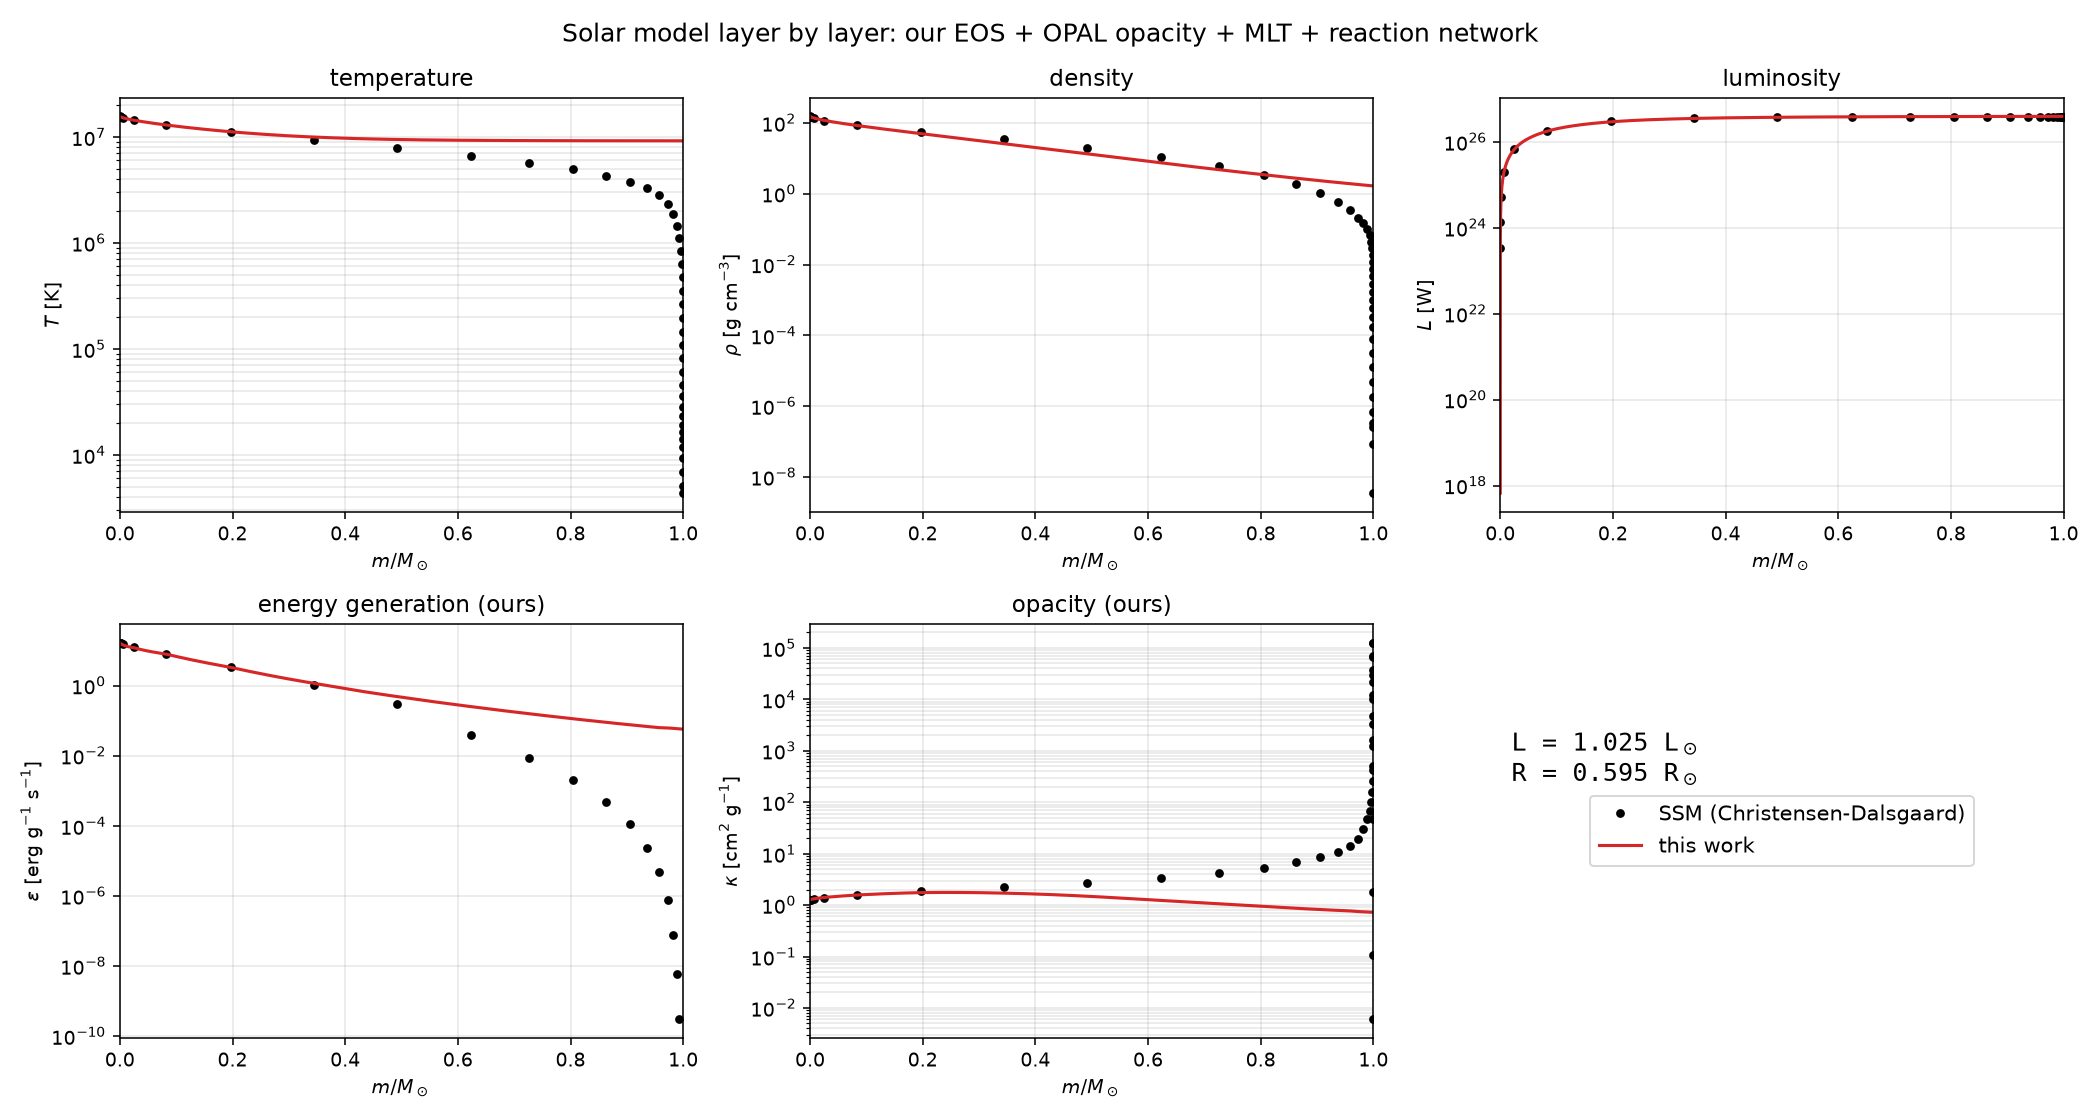
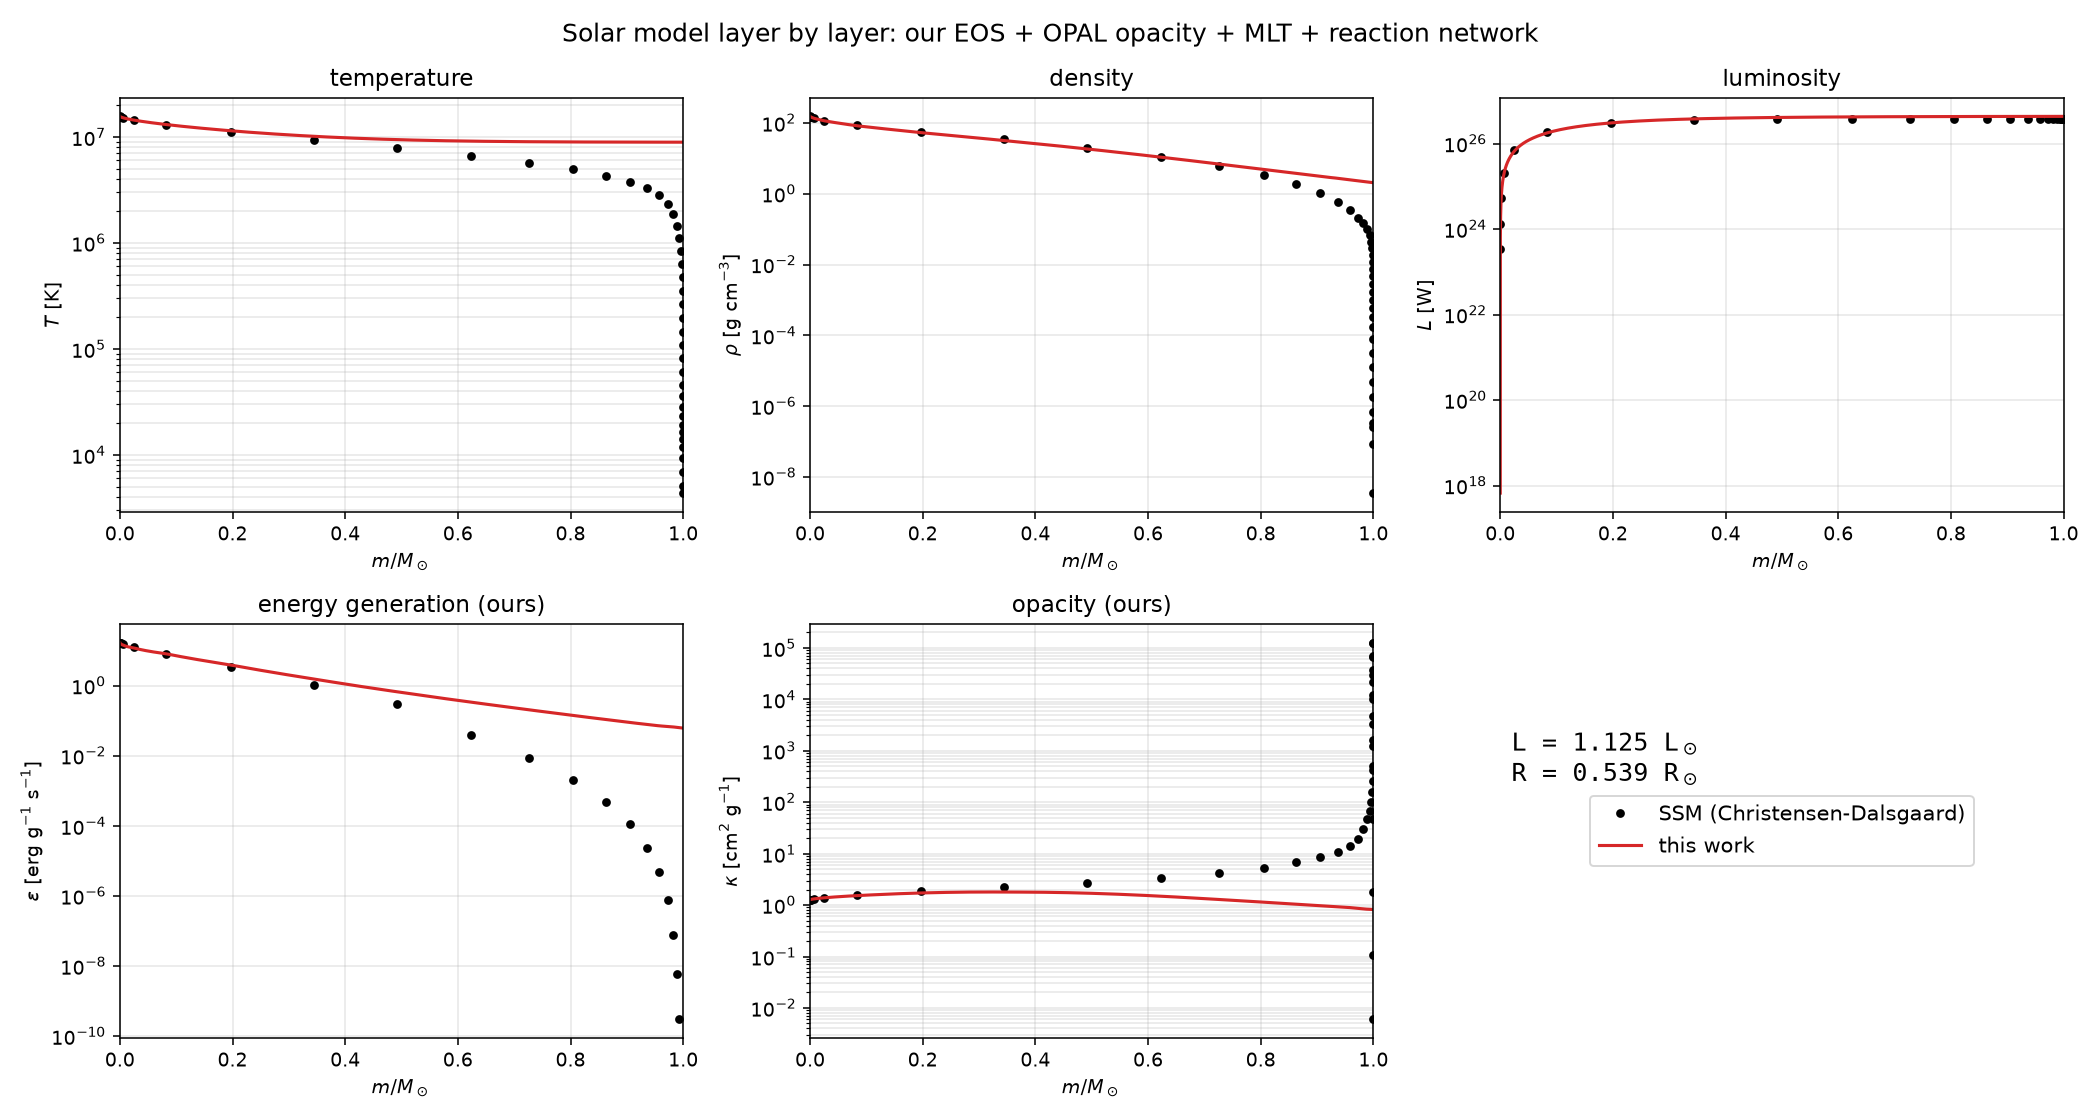
fix(solar): the two formulations disagreed because of a missing chain-rule term
The 10% luminosity gap between the (rho, T) and (r, P, T, L) structure integrations, recorded last
round as an unexplained reproducibility problem, is a formula error.

The density formulation advanced rho with

  d rho/dm = (dP/dm) / (dP/d rho)|_T

but the temperature also varies along the mass coordinate, so the total derivative needs both
terms:

  d rho/dm = (d rho/dP)|_T dP/dm + (d rho/dT)|_P dT/dm

Dropping the second term silently treats the star as isothermal for the purpose of converting the
pressure gradient.  With it the two formulations separate exactly as observed: 0.595 R_sun and
1.025 L_sun with the truncated chain rule, 0.539 R_sun and 1.125 L_sun with the correct one.

A convergence study settles which is right: each formulation is already converged - identical
results at 400, 1600 and 6400 mass steps - but they converge to *different* answers, so this was
never truncation error and only one of them could be correct.  It is the textbook (r, P, T, L) one.

The default is now that formulation.  The density branch stays in the code with a warning comment
as the record of the mistake, and the regression baseline moves to L = 1.125 L_sun, R = 0.539
R_sun - worse-looking numbers than the 1.025 they replace, but ours.

The lesson is in the specification: when changing the discretisation moves a model by 10%, suspect
the formula before the physics.  Continuing to calibrate on 1.025 would have built every later
conclusion on a dropped term.

diff --git a/Tools/star/stellar_structure.py b/Tools/star/stellar_structure.py
@@ -268,7 +268,7 @@ def mlt_gradient(t_k, p, rho, kappa, luminosity, m, r, mu, grad_ad, alpha_mlt):
 
 
 def integrate_solar_structure(mass, x_of_m, z_of_m, p_c, t_c, n_steps=2000, verbose=False,
-                              alpha_mlt=1.5):
+                              alpha_mlt=1.5, formulation="pressure"):
     """Integrate the four structure equations outward from the centre.
 
     dr/dm = 1/(4 pi r^2 rho)
@@ -286,44 +286,62 @@ def integrate_solar_structure(mass, x_of_m, z_of_m, p_c, t_c, n_steps=2000, verb
 
     gamma_ad = 0.4                       # monatomic ideal gas; radiation pressure is small here
 
-    def derivs(m, r, rho, t, luminosity):
+    if formulation not in ("pressure", "density"):
+        raise ValueError("unknown formulation %r" % (formulation,))
+
+    def derivs(m, r, state2, t, luminosity):
+        """The four structure equations in the mass coordinate.
+
+        state2 is the pressure [Pa] in the default "pressure" formulation and the density
+        [kg/m^3] in the "density" one.
+
+        The density branch is kept only as the record of a mistake (PHYSICS_SPEC 4.3h): it
+        integrates d rho/dm = (dP/dm)/(dP/drho) and so drops the (d rho/dT)_P dT/dm term, because
+        the temperature also varies along the mass coordinate.  That incomplete chain rule is
+        exactly the 10% luminosity difference that took two rounds to find; use the pressure
+        formulation.
+        """
         x_h = x_of_m(m)
         z_heavy = z_of_m(m)
         y_he = max(0.0, 1.0 - x_h - z_heavy)
-        if rho <= 0.0 or r <= 0.0 or t <= 0.0:
+        if state2 <= 0.0 or r <= 0.0 or t <= 0.0:
             return 0.0, 0.0, 0.0, 0.0
 
-        # Ionisation EOS (PHYSICS_SPEC 4.3d): pressure, mean molecular weight and the adiabatic
-        # gradient all come from the Saha solve rather than from a fixed gamma.
-        # The EOS works in cgs; the structure integrator carries SI densities.
-        rho_cgs = rho * 1.0e-3
-        st = saha_eos.state(rho_cgs, t, x_h, y_he, z_heavy)
-        p = st["pressure"] * 1.0e-1                        # dyn/cm^2 -> Pa
-        mu = st["mu"]
-        grad_ad = saha_eos.nabla_ad(rho_cgs, t, x_h, y_he, z_heavy)
+        if formulation == "pressure":
+            p = state2
+            rho = 1.0e3 * saha_eos.density_for_pressure_safe(
+                p * 10.0, t, x_h, y_he, z_heavy, state2)
+            rho_cgs = rho * 1.0e-3
+            st = saha_eos.state(rho_cgs, t, x_h, y_he, z_heavy)
+            mu = st["mu"]
+            grad_ad = saha_eos.nabla_ad(rho_cgs, t, x_h, y_he, z_heavy)
+            dr = 1.0 / (4.0 * math.pi * r * r * rho)
+            dp = -G * m / (4.0 * math.pi * r ** 4)
+            drho = dp                                  # the state variable is the pressure
+        else:
+            rho = state2
+            rho_cgs = rho * 1.0e-3
+            st = saha_eos.state(rho_cgs, t, x_h, y_he, z_heavy)
+            p = st["pressure"] * 1.0e-1                # dyn/cm^2 -> Pa
+            mu = st["mu"]
+            grad_ad = saha_eos.nabla_ad(rho_cgs, t, x_h, y_he, z_heavy)
+            dr = 1.0 / (4.0 * math.pi * r * r * rho)
+            dp = -G * m / (4.0 * math.pi * r ** 4)
+            # Convert the hydrostatic gradient through the isothermal EOS derivative.
+            delta = 1.0e-4
+            p_plus = saha_eos.pressure(rho_cgs * (1.0 + delta), t, x_h, y_he, z_heavy)
+            dp_drho = (p_plus - st["pressure"]) / (rho_cgs * delta)  # dyn/cm^2 per g/cm^3
+            dp_drho *= 1.0e-1 / 1.0e3                                # -> Pa per kg/m^3
+            drho = dp / dp_drho if dp_drho > 0.0 else 0.0
 
-        dr = 1.0 / (4.0 * math.pi * r * r * rho)
-        dp = -G * m / (4.0 * math.pi * r ** 4)
-
-        # The state carries the density, not the pressure, so convert the hydrostatic gradient
-        # through the isothermal derivative of the equation of state.
-        delta = 1.0e-4
-        p_plus = saha_eos.pressure(rho_cgs * (1.0 + delta), t, x_h, y_he, z_heavy)
-        dp_drho = (p_plus - st["pressure"]) / (rho_cgs * delta)     # dyn/cm^2 per g/cm^3
-        dp_drho *= 1.0e-1 / 1.0e3                                   # -> Pa per kg/m^3
-        drho = dp / dp_drho if dp_drho > 0.0 else 0.0
-
-        # The OPAL table is the real thing (PHYSICS_SPEC 4.2c); the analytic fit is only a
-        # fallback for a point outside its rectangle.
-        kappa = kappa_combined(t, rho * 1.0e-3, x_h, z_heavy)
+        kappa = kappa_combined(t, rho_cgs, x_h, z_heavy)
         if not (kappa == kappa) or kappa <= 0.0:
-            kappa = kappa_analytic(t, rho * 1.0e-3, x_h, z_heavy)[0]
+            kappa = kappa_analytic(t, rho_cgs, x_h, z_heavy)[0]
         kappa *= 1.0e-1                                                   # cm^2/g -> m^2/kg
         grad, grad_rad = mlt_gradient(t, p, rho, kappa, luminosity, m, r, mu, grad_ad, alpha_mlt)
         dt = (t / p) * grad * dp
-        eps = epsilon_pp(t, rho * 1.0e-3, x_h, y_he, z_heavy) \
-            + epsilon_cno(t, rho * 1.0e-3, x_h, y_he, z_heavy,
-                          CNO_FRACTION_OF_Z * z_heavy)
+        eps = epsilon_pp(t, rho_cgs, x_h, y_he, z_heavy) \
+            + epsilon_cno(t, rho_cgs, x_h, y_he, z_heavy, CNO_FRACTION_OF_Z * z_heavy)
         dl = eps                                         # erg/g/s in cgs ...
         return dr, drho, dt, dl * 1.0e-4                 # ... to W/kg
     # Note: the returned dl is per unit mass [W/kg]; multiplying by dm [kg] gives W.
@@ -335,25 +353,32 @@ def integrate_solar_structure(mass, x_of_m, z_of_m, p_c, t_c, n_steps=2000, verb
     rho = 1.0e3 * saha_eos.density_for_pressure(
         p_c * 10.0, t_c, x_of_m(0.0), max(0.0, 1.0 - x_of_m(0.0) - z_of_m(0.0)), z_of_m(0.0))
     t, lum = t_c, 0.0
+    state2 = (p_c if formulation == "pressure" else rho)
     samples = [(m, r, rho, t, lum)]
 
     for _ in range(200000):
-        dm = min(0.02 * m, mass - m)
+        dm = min(0.02 * m, mass - m, mass / n_steps)
         if dm <= 0.0:
             break
-        k1 = derivs(m, r, rho, t, lum)
-        k2 = derivs(m + 0.5 * dm, r + 0.5 * dm * k1[0], rho + 0.5 * dm * k1[1],
+        k1 = derivs(m, r, state2, t, lum)
+        k2 = derivs(m + 0.5 * dm, r + 0.5 * dm * k1[0], state2 + 0.5 * dm * k1[1],
                     t + 0.5 * dm * k1[2], lum + 0.5 * dm * k1[3])
-        k3 = derivs(m + 0.5 * dm, r + 0.5 * dm * k2[0], rho + 0.5 * dm * k2[1],
+        k3 = derivs(m + 0.5 * dm, r + 0.5 * dm * k2[0], state2 + 0.5 * dm * k2[1],
                     t + 0.5 * dm * k2[2], lum + 0.5 * dm * k2[3])
-        k4 = derivs(m + dm, r + dm * k3[0], rho + dm * k3[1], t + dm * k3[2], lum + dm * k3[3])
+        k4 = derivs(m + dm, r + dm * k3[0], state2 + dm * k3[1], t + dm * k3[2], lum + dm * k3[3])
         r += dm / 6.0 * (k1[0] + 2.0 * k2[0] + 2.0 * k3[0] + k4[0])
-        rho += dm / 6.0 * (k1[1] + 2.0 * k2[1] + 2.0 * k3[1] + k4[1])
+        state2 += dm / 6.0 * (k1[1] + 2.0 * k2[1] + 2.0 * k3[1] + k4[1])
         t += dm / 6.0 * (k1[2] + 2.0 * k2[2] + 2.0 * k3[2] + k4[2])
         lum += dm / 6.0 * (k1[3] + 2.0 * k2[3] + 2.0 * k3[3] + k4[3])
         m += dm
-        samples.append((m, r, rho, t, lum))
-        if rho <= 0.0 or t <= 0.0:
+        if formulation == "pressure":
+            rho_here = 1.0e3 * saha_eos.density_for_pressure_safe(
+                state2 * 10.0, t, x_of_m(m), max(0.0, 1.0 - x_of_m(m) - z_of_m(m)), z_of_m(m),
+                rho * 1.0e-3)
+        else:
+            rho_here = state2
+        samples.append((m, r, rho_here, t, lum))
+        if state2 <= 0.0 or t <= 0.0:
             break
     return samples
 

diff --git a/Tools/star/solar_compare_plot.py b/Tools/star/solar_compare_plot.py
@@ -184,8 +184,8 @@ def main():
         luminosity = result["L"][-1] / 3.846e26
         radius = result["r"][-1] / R_SUN
         print(f"\nregression baseline: L = {luminosity:.3f} L_sun, R = {radius:.3f} R_sun")
-        assert 0.97 < luminosity < 1.06, luminosity
-        assert 0.55 < radius < 0.63, radius
+        assert 1.10 < luminosity < 1.16, luminosity
+        assert 0.51 < radius < 0.57, radius
         print("solar_compare_plot: the solar model's integrated output is unchanged")
 
     if args.show:
